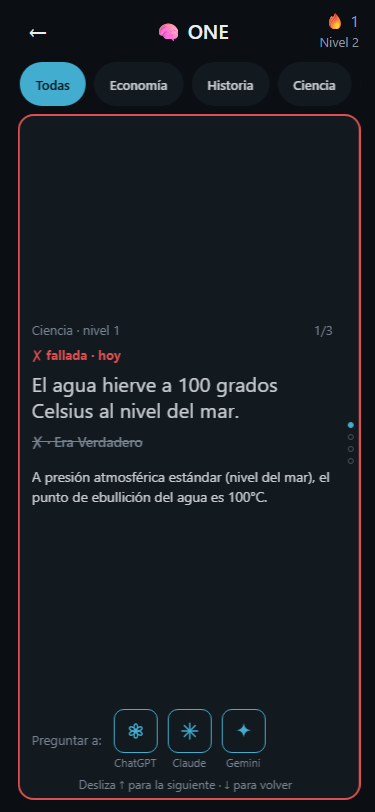
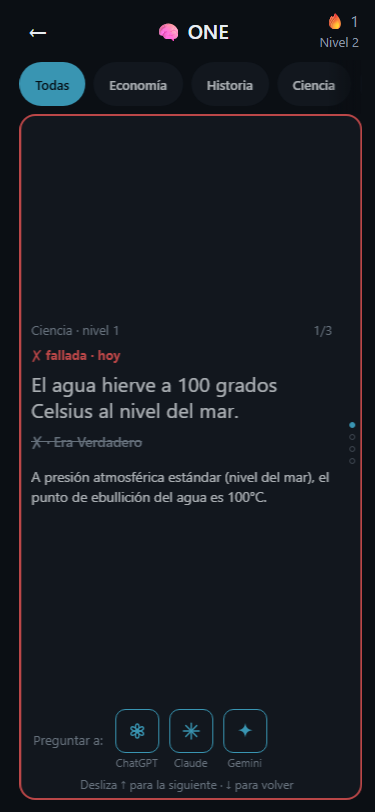
Repaso del HUB, ronda 1: tolerancia sin ultimaRespuesta + aviso de scroll en chips
Important: e2e nuevo para una tarjeta anterior a v0.2 (sin ultimaRespuesta ni
ultimaCorrecta, fallada/pendiente) precargada en localStorage con la forma
real de motor.js — confirma que la respuesta compacta marca solo la
correcta, sin línea de "tu respuesta", y que la tarjeta no hace scroll.

UX: la fila .repaso-filtro no avisaba de que había más chips a la derecha.
Degradado fijo (::after, position:absolute dentro del propio contenedor con
overflow-x:auto, del color de fondo a transparente, pointer-events:none) que
se apaga con la clase .repaso-filtro--final cuando la fila llega al final o
cuando ni hace falta scroll (actualizarFiltroRepasoFinal en app.js, listener
de scroll único + recálculo tras cada renderFiltroRepaso). scroll-snap-type
añadido a la fila. Captura v0.2a-repaso-375.png regenerada para mostrarlo.

Claude-Session: https://claude.ai/code/session_01UVvhBTcCK6CYm6LEyJUvJk

diff --git a/tests/e2e.spec.js b/tests/e2e.spec.js
@@ -2231,6 +2231,113 @@ test.describe('ONE · repaso v0.2a', () => {
     await comprobarEnViewport({ width: 430, height: 932 }, false);
   });
 
+  // Ronda 1 de revisión (Important): una tarjeta ANTERIOR a v0.2 no tiene
+  // ultimaRespuesta ni ultimaCorrecta (esos dos campos no existían todavía).
+  // Se precarga en localStorage un estado con esa forma exacta -- ANTES de
+  // que app.js lea `one.estado` al arrancar, así que goto + set + reload, no
+  // goto + set a secas (cargarEstado() se ejecuta una sola vez, de forma
+  // síncrona, al evaluar el módulo) -- para una tarjeta fallada (pendiente)
+  // de una pregunta test4 del banco de ejemplo. Solo se omiten esos dos
+  // campos nuevos: el resto sigue la plantilla real de motor.js
+  // (registrarRespuesta/normalizarEstado), no un JSON inventado.
+  test('Repaso: una tarjeta anterior a v0.2 (sin ultimaRespuesta ni ultimaCorrecta) se pinta marcando solo la correcta', async ({
+    page,
+  }) => {
+    await page.goto('/?ejemplo=1&test=1');
+    await expect(page.locator('[data-vista="inicio"]')).toBeVisible();
+
+    const bancoEjemplo = await page.evaluate(() => fetch('datos/banco.ejemplo.json').then((r) => r.json()));
+    const preguntaTest4 = bancoEjemplo.find((p) => p.tipo === 'test4');
+    expect(preguntaTest4).toBeTruthy();
+
+    const estadoAnteriorAV02 = {
+      version: 2,
+      xp: 0,
+      combo: 0,
+      nivelPartida: 1,
+      racha: { dias: 0, ultimaFecha: null },
+      hoy: { fecha: '2020-01-01', respondidas: 1, aciertos: 0 },
+      areas: {},
+      tarjetas: {
+        [preguntaTest4.id]: {
+          caja: 0,
+          proximo: '2020-01-02',
+          aciertos: 0,
+          fallos: 1,
+          ultimo: '2020-01-01',
+          ultimoFallo: '2020-01-01',
+          pendiente: true,
+          prioridad: 1,
+          recuperada: false,
+          fragil: false,
+          // Sin ultimaRespuesta ni ultimaCorrecta: así era una tarjeta antes
+          // de v0.2 (motor.js los añadió con registrarRespuesta en esta spec).
+        },
+      },
+      reportadas: [],
+      historial: [],
+      recuperadas: 0,
+      confianza: { altas: 0, altasOk: 0, bajas: 0, bajasOk: 0 },
+      mision: null,
+    };
+    await page.evaluate(
+      (estado) => localStorage.setItem('one.estado', JSON.stringify(estado)),
+      estadoAnteriorAV02
+    );
+    await page.reload(); // recarga app.js: cargarEstado() lee YA el estado precargado.
+
+    await expect(page.locator('[data-vista="inicio"]')).toBeVisible();
+    await page.locator('[data-test="cerebro"]').click();
+    await expect(page.locator('[data-vista="progreso"]')).toBeVisible();
+
+    const botonRepasoHub = page.locator('[data-test="repaso-hub"]');
+    await expect(botonRepasoHub).toHaveAttribute('aria-disabled', 'false');
+    await botonRepasoHub.click();
+    await expect(page.locator('[data-vista="repaso"]')).toBeVisible();
+    await esperarAsentamientoMazo(page);
+    await assertSinScroll(page);
+    await assertTarjetaSinScroll(page);
+
+    const t = tarjetaActual(page);
+    await expect(t).toHaveAttribute('data-test', 'repaso-tarjeta');
+    await expect(t.locator('.repaso-marca')).toContainText('✗ fallada'); // pendiente -> tramo "fallada"
+
+    // Sin ultimaRespuesta no hay forma de saber qué opción se marcó: se pinta
+    // SOLO la correcta (spec v0.2 §2), sin ninguna línea tachada de "la tuya".
+    const compacta = t.locator('.respuesta-compacta');
+    await expect(compacta).toContainText(preguntaTest4.opciones[preguntaTest4.correcta]);
+    await expect(compacta.locator('.respuesta-compacta-linea--tachada')).toHaveCount(0);
+  });
+
+  // Ronda 1 de revisión (UX): la fila de chips no avisaba de que había más
+  // áreas a la derecha sin desplazarse. Degradado fijo sobre el borde derecho
+  // (estilos.css, .repaso-filtro::after) que se apaga al llegar al final.
+  test('Repaso: el degradado de la fila de chips avisa de que hay más a la derecha, y se apaga al llegar al final', async ({
+    page,
+  }) => {
+    await page.goto('/?test=1');
+    await prepararYJugar(page);
+
+    await page.locator('[data-test="repaso-hub"]').click();
+    await expect(page.locator('[data-vista="repaso"]')).toBeVisible();
+    await esperarAsentamientoMazo(page);
+
+    const filtro = page.locator('[data-test="repaso-filtro"]');
+    // Al cargar (9 chips no caben a 375px): sin la clase que apaga el
+    // degradado, y el propio ::after realmente pintado (display != none).
+    await expect(filtro).not.toHaveClass(/repaso-filtro--final/);
+    expect(await filtro.evaluate((el) => getComputedStyle(el, '::after').display)).not.toBe('none');
+
+    // Desplazada hasta el final -> aparece repaso-filtro--final y el
+    // degradado se apaga (ya no hay "más a la derecha" que avisar).
+    await filtro.evaluate((el) => {
+      el.scrollLeft = el.scrollWidth;
+      el.dispatchEvent(new Event('scroll'));
+    });
+    await expect(filtro).toHaveClass(/repaso-filtro--final/);
+    expect(await filtro.evaluate((el) => getComputedStyle(el, '::after').display)).toBe('none');
+  });
+
   test('Repaso: sin ninguna tarjeta jugada, el botón del HUB está apagado ("Juega primero")', async ({ page }) => {
     await page.goto('/?test=1');
     await expect(page.locator('[data-vista="inicio"]')).toBeVisible();

diff --git a/estilos.css b/estilos.css
@@ -1563,17 +1563,24 @@ main#app {
 
 /* --- Repaso del HUB (spec v0.2 §2): fila de chips + mazo "sin fin" --- */
 /* Fila horizontal de chips ("Todas" + las 8 áreas): scroll horizontal SOLO
-   aquí si las 9 no caben a 375px, nunca en la vista entera (spec v0.2 §2). */
+   aquí si las 9 no caben a 375px, nunca en la vista entera (spec v0.2 §2).
+   position:relative ancla el degradado de ::after (ver más abajo);
+   scroll-snap-type (ronda 1, UX) hace que soltar el dedo a medio chip
+   "encaje" en el más cercano, sin animación propia que respetar bajo
+   "reducir movimiento" (el navegador decide el ajuste, no hay transition). */
 .repaso-filtro {
+  position: relative;
   display: flex;
   gap: 8px;
   overflow-x: auto;
   -webkit-overflow-scrolling: touch;
   padding: 2px 2px 8px;
+  scroll-snap-type: x proximity;
 }
 
 .repaso-chip {
   flex: none;
+  scroll-snap-align: start;
   min-height: 44px;
   padding: 0 16px;
   display: inline-flex;
@@ -1602,6 +1609,31 @@ main#app {
 .repaso-chip:disabled {
   color: var(--texto-suave);
   opacity: 0.4;
+}
+
+/* Ronda 1 de revisión (UX): la fila no avisaba de que había más chips a la
+   derecha. ::after es position:absolute DENTRO del propio contenedor con
+   overflow-x:auto: se ancla al borde visible del scroll (no al contenido
+   desplazado), igual que un botón flotante dentro de una lista con scroll,
+   así que queda fijo sobre la fila según se desliza. Del color de fondo
+   (borde, más opaco) a transparente (hacia el contenido): sin magenta, sin
+   animación (pointer-events:none para no robar toques a los chips de debajo). */
+.repaso-filtro::after {
+  content: '';
+  position: absolute;
+  top: 0;
+  right: 0;
+  bottom: 0;
+  width: 32px;
+  background: linear-gradient(to right, transparent, var(--fondo));
+  pointer-events: none;
+}
+
+/* Desplazada hasta el final (o si ni hace falta scroll: todo cabe) -- ver
+   actualizarFiltroRepasoFinal en app.js -- ya no hay "más a la derecha" que
+   avisar. */
+.repaso-filtro--final::after {
+  display: none;
 }
 
 /* --- HUB (antes "Progreso"): siempre se empieza a jugar desde aquí --- */

diff --git a/app.js b/app.js
@@ -2124,6 +2124,21 @@ function renderFiltroRepaso(listaCompleta) {
     });
     contenedorFiltroRepaso.appendChild(chip);
   });
+  actualizarFiltroRepasoFinal();
+}
+
+/** Ronda 1 de revisión (UX): la fila de chips no avisaba de que había más a la
+ * derecha. `.repaso-filtro--final` apaga el degradado del borde derecho
+ * (ver estilos.css) cuando la fila ya está desplazada hasta el final -- o
+ * cuando ni siquiera hace falta scroll porque todo cabe (mismo cálculo:
+ * `scrollWidth <= clientWidth` dispara la comparación igual que "ya al
+ * final"). Se llama una vez al pintar los chips (renderFiltroRepaso) y en
+ * cada evento 'scroll' de la fila (listener añadido una sola vez, más abajo,
+ * junto al resto de listeners del fichero). */
+function actualizarFiltroRepasoFinal() {
+  const alFinal =
+    contenedorFiltroRepaso.scrollLeft + contenedorFiltroRepaso.clientWidth >= contenedorFiltroRepaso.scrollWidth - 1;
+  contenedorFiltroRepaso.classList.toggle('repaso-filtro--final', alFinal);
 }
 
 /** Recalcula el feed completo, pinta los chips y (re)monta el mazo filtrado
@@ -2342,6 +2357,10 @@ nodoRepasoHub.addEventListener('click', () => {
   if (nodoRepasoHub.dataset.tocable !== 'true') return;
   abrirRepaso();
 });
+// Degradado de "hay más chips a la derecha" (ronda 1 de revisión): un solo
+// listener de scroll para toda la vida de la app (los chips se recrean en
+// cada renderFiltroRepaso, pero el contenedor .repaso-filtro nunca).
+contenedorFiltroRepaso.addEventListener('scroll', actualizarFiltroRepasoFinal);
 // "←" (cabecera): del HUB a inicio; de pregunta/resumen, siempre al HUB.
 // "Otra partida"/"Inicio" del resumen ya no son botones estáticos: viven
 // dentro del mazo de repaso (ver construirAccionesResumen).
